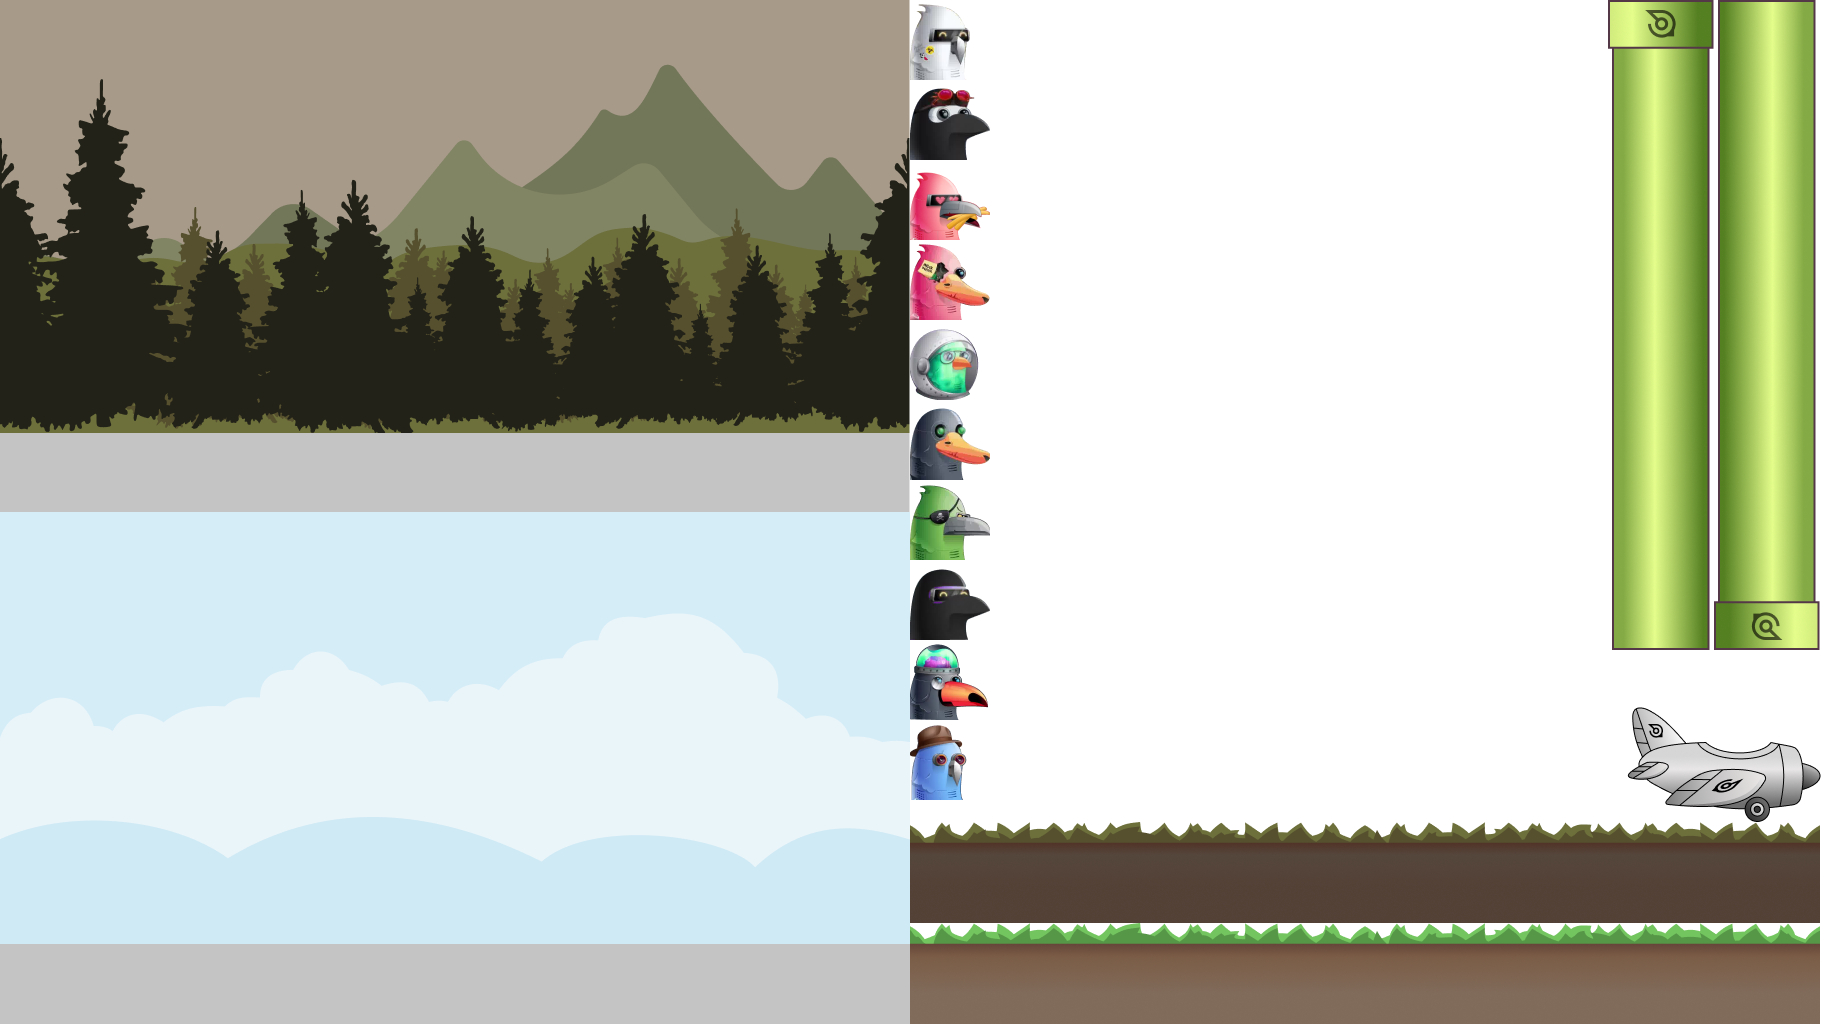
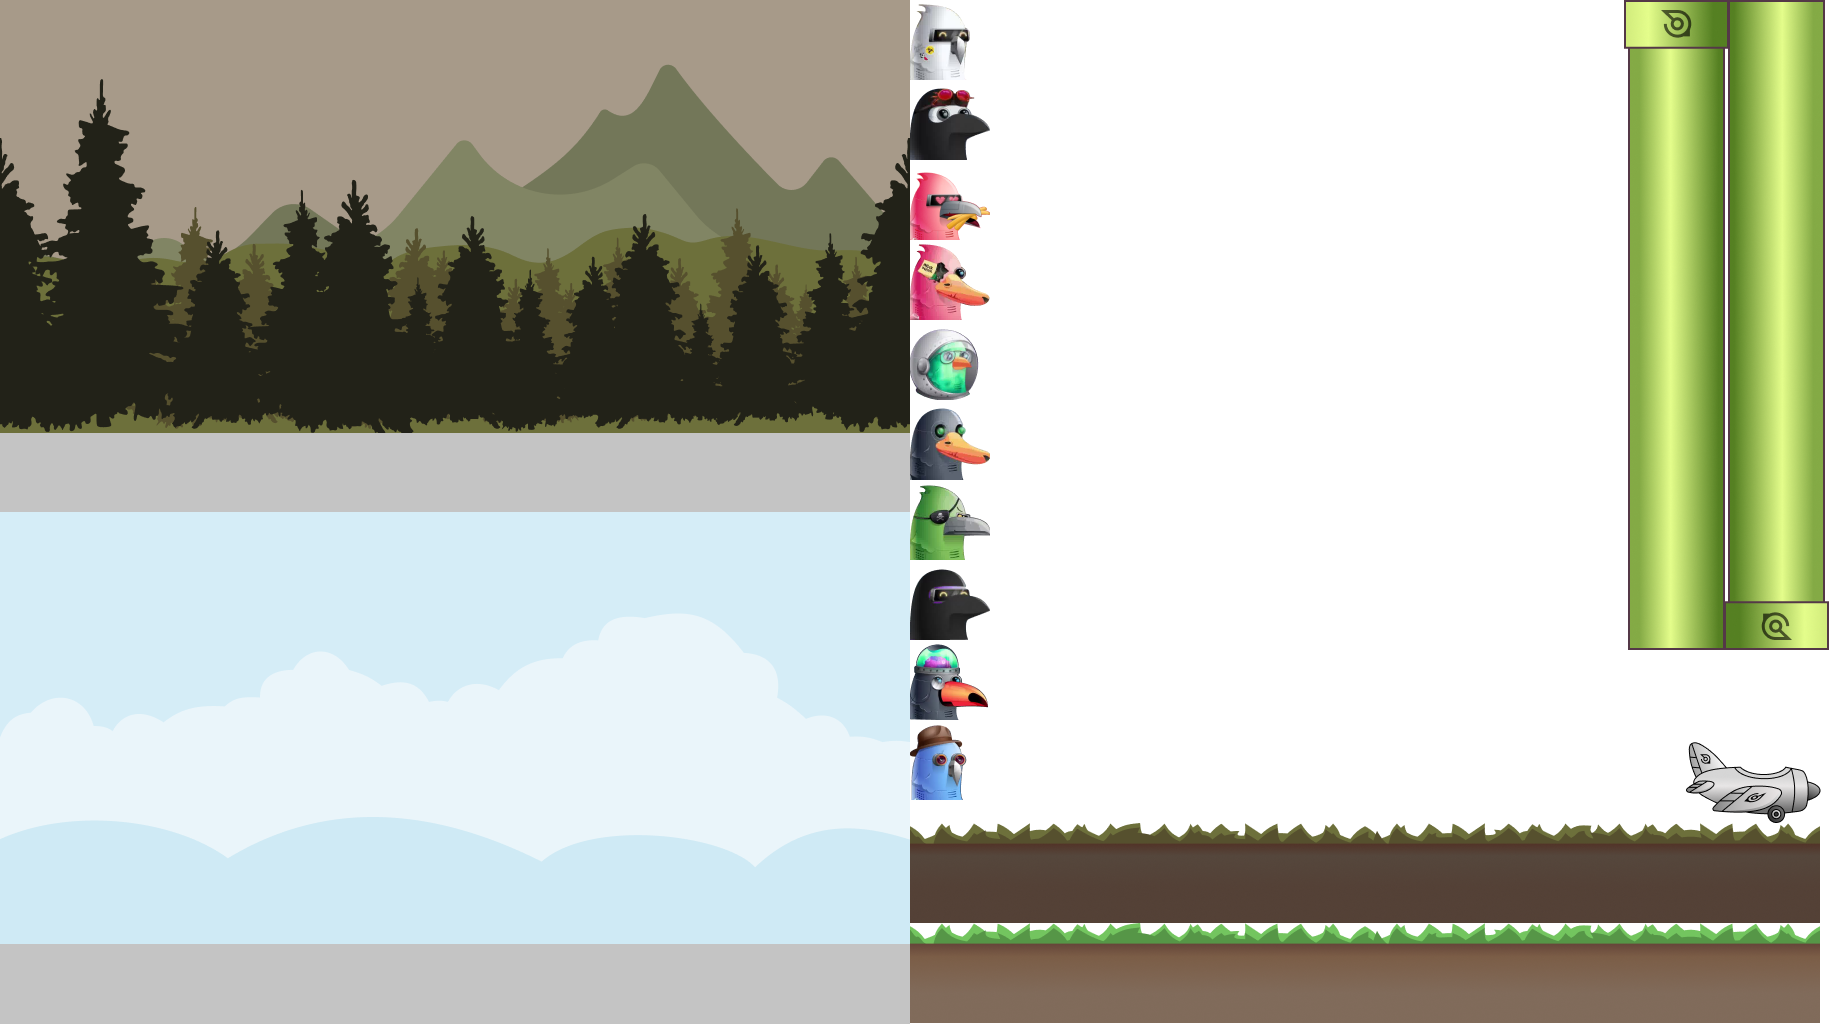
fixed typos

diff --git a/src/core/entities/game/game.actions.ts b/src/core/entities/game/game.actions.ts
@@ -1,18 +1,30 @@
 import { Pipe, Bird } from './sprites';
 import {
+  BACKGROUND_POSITION,
+  BACKGROUNDS,
   BIRD,
   FOREGROUND_POSITION,
+  FOREGROUNDS,
   FRAMES,
   GAME_STATUS,
   PIPES,
   STATUS,
 } from './game.controller';
-import { bird_h, bird_w, fg_h, pipe_h, pipe_w } from '../../sprites';
+import {
+  bg_w,
+  bird_h,
+  bird_w,
+  fg_h,
+  fg_w,
+  pipe_h,
+  pipe_w,
+} from '../../sprites';
 import { height } from '../device';
 
 export const startGame = () => {
   BIRD.set(new Bird(60, 0));
   FOREGROUND_POSITION.reset();
+  BACKGROUND_POSITION.reset();
   FRAMES.reset();
   PIPES.reset();
 
@@ -23,13 +35,20 @@ export const updateFrame = () => {
   FRAMES.set((f) => f + 1);
 
   // Update Scenery
-  // TODO
+  const newForegroundPos = (FOREGROUND_POSITION.value - 2) % fg_w;
+  FOREGROUND_POSITION.set(newForegroundPos);
+  FOREGROUNDS.nextStateValue[0].cx = newForegroundPos;
+  FOREGROUNDS.nextStateValue[1].cx = newForegroundPos + fg_w;
+  FOREGROUNDS.ingest();
+
+  const newBackgroundPos = (BACKGROUND_POSITION.value - 0.5) % bg_w;
+  BACKGROUND_POSITION.set(newBackgroundPos);
+  BACKGROUNDS.nextStateValue[0].cx = newBackgroundPos;
+  BACKGROUNDS.nextStateValue[1].cx = newBackgroundPos + bg_w;
+  BACKGROUNDS.ingest();
 
   // Update Bird
-  // BIRD.nextStateValue = updateBird(BIRD.value);
-  // BIRD.ingest({ force: true });
-  // TODO AgileTs is buggy, seems like it always needs a fresh object idk
-  BIRD.set((b) => ({ ...updateBird(b) }), { force: true });
+  BIRD.set((b) => updateBird(b), { force: true });
 
   // Update Pipes
   if (STATUS.value === GAME_STATUS.PLAYING) {
@@ -45,8 +64,27 @@ export const updateBird = (bird: Bird): Bird => {
   }
 
   if (STATUS.value === GAME_STATUS.PLAYING) {
+    // Handle velocity
     bird.velocity += bird.gravity;
     bird.cy += bird.velocity;
+
+    // Handle collision with bottom
+    const bottomCollisionHeight = height - fg_h - 100;
+    if (bird.cy >= bottomCollisionHeight) {
+      bird.cy = bottomCollisionHeight;
+      // sets velocity to jump speed for correct rotation
+      bird.velocity = bird.jump;
+    }
+
+    // Handle collision with top
+
+    // Handle rotation
+    // When bird lacks upward momentum increment the rotation angle
+    if (bird.velocity >= bird.jump) {
+      bird.rotation = Math.min(Math.PI / 2, bird.rotation + 0.1);
+    } else {
+      bird.rotation = -0.3;
+    }
   }
 
   return bird;
@@ -54,14 +92,13 @@ export const updateBird = (bird: Bird): Bird => {
 
 export const jumpBird = () => {
   BIRD.nextStateValue.velocity = -BIRD.value.jump;
-  // BIRD.ingest({ force: true });
-  BIRD.set({ ...BIRD.nextStateValue });
+  BIRD.ingest({ force: true });
 };
 
 export const updatePipes = (pipes: Pipe[]) => {
   // Generate a Pipe every 100 frame
   if (FRAMES.value % 100 === 0) {
-    pipes.concat(generatePipeSet());
+    pipes = pipes.concat(generatePipeSet());
   }
 
   // Calculate collision and move Pipes

diff --git a/src/components/FlappyBird/components/Pipe.tsx b/src/components/FlappyBird/components/Pipe.tsx
@@ -1,10 +1,29 @@
-import React from 'react';
-import { background_forest, SpriteWrapper } from '../../../core/sprites';
+import React, { useEffect, useState } from 'react';
+import {
+  background_forest,
+  pipe_n,
+  pipe_s,
+  SpriteWrapper,
+} from '../../../core/sprites';
 import { game } from '../../../core';
 
 const Pipe: React.FC<Props> = (props) => {
   const { sprite } = props;
-  return <SpriteWrapper gameSprite={sprite}>{background_forest}</SpriteWrapper>;
+  const [pipeAsset, setPipeAsset] = useState<React.ReactElement | null>(null);
+
+  useEffect(() => {
+    switch (sprite.type) {
+      default:
+      case 'N':
+        setPipeAsset(pipe_n);
+        break;
+      case 'S':
+        setPipeAsset(pipe_s);
+        break;
+    }
+  }, [sprite.type]);
+
+  return <SpriteWrapper gameSprite={sprite}>{pipeAsset}</SpriteWrapper>;
 };
 
 export default Pipe;

diff --git a/src/components/FlappyBird/index.tsx b/src/components/FlappyBird/index.tsx
@@ -43,8 +43,7 @@ const FlappyBird: React.FC = () => {
   }, []);
 
   return (
-    <Container>
-      <div>{status}</div>
+    <Container id="fakingcanvas">
       {backgrounds.map((bg) => (
         <Background sprite={bg} key={bg.id} />
       ))}
@@ -62,6 +61,7 @@ const FlappyBird: React.FC = () => {
 export default FlappyBird;
 
 const Container = styled.div`
+  position: relative;
   overflow: hidden;
   width: ${device.width}px;
   height: ${device.height}px;

diff --git a/src/core/sprites/sprites.ts b/src/core/sprites/sprites.ts
@@ -19,10 +19,10 @@ export const foreground_forest = Sprite({
 
 export const plane = Sprite({
   filename: sheet,
-  x: 1628,
-  y: 708,
-  width: 192,
-  height: 114,
+  x: 1686,
+  y: 743,
+  width: 134,
+  height: 80,
 });
 
 export const pipe_n = Sprite({
@@ -35,7 +35,7 @@ export const pipe_n = Sprite({
 
 export const pipe_s = Sprite({
   filename: sheet,
-  x: 1829,
+  x: 1724,
   y: 0,
   width: 105,
   height: 650,

diff --git a/src/core/entities/device/index.ts b/src/core/entities/device/index.ts
@@ -1,9 +1,11 @@
+import { bg_h, bg_w } from '../../sprites';
+
 let windowWidth = window.innerWidth;
 let windowHeight = window.innerHeight;
 
-if (windowWidth >= 500) {
-  windowWidth = 320;
-  windowHeight = 480;
+if (windowWidth >= bg_w) {
+  windowWidth = bg_w;
+  windowHeight = bg_h;
 }
 
 export const width = windowWidth;

diff --git a/src/core/entities/game/sprites/bird.ts b/src/core/entities/game/sprites/bird.ts
@@ -6,7 +6,7 @@ export class Bird extends Base {
   // Static properties, that doesn't change over time
   public gravity = 0.25;
   public jump = 4.6;
-  public radius = 12; // Collision radius
+  public radius = 57; // Collision radius
 
   constructor(cx: number, cy: number) {
     super(cx, cy, 0);

diff --git a/src/core/sprites/parser/Sprite.tsx b/src/core/sprites/parser/Sprite.tsx
@@ -1,8 +1,7 @@
 import React from 'react';
 
 const Sprite: React.FC<Props> = (props) => {
-  const { filename } = props;
-  const { x, y, width, height } = props;
+  const { filename, x, y, width, height } = props;
 
   if (!filename) {
     return null;

diff --git a/src/core/entities/game/game.controller.ts b/src/core/entities/game/game.controller.ts
@@ -28,3 +28,4 @@ export const FOREGROUNDS = createState([
   new Foreground(fg_w, height - fg_h),
 ]);
 export const FOREGROUND_POSITION = createState(0);
+export const BACKGROUND_POSITION = createState(0);
